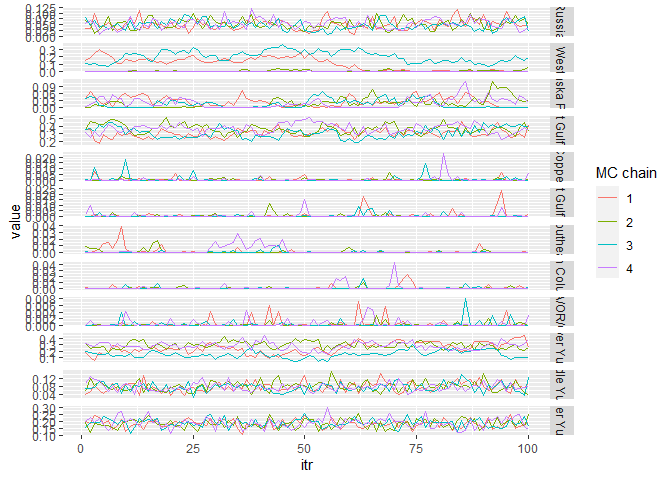
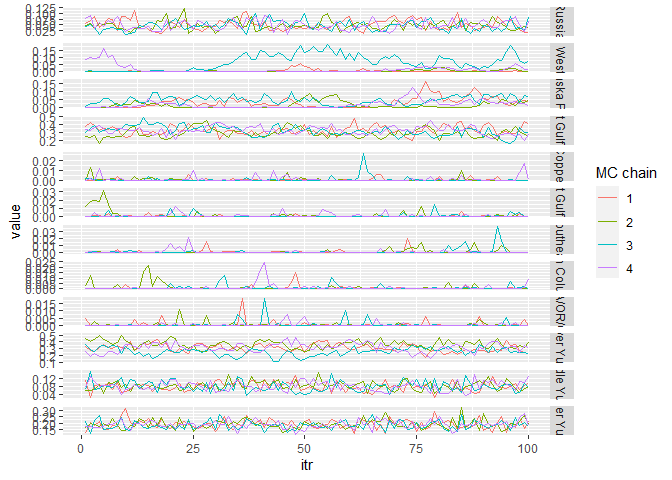
updates

diff --git a/README.md b/README.md
@@ -6,7 +6,7 @@
 <!-- badges: start -->
 <!-- badges: end -->
 
-Ms.GSI is a package for conducting multistage genetic stock
+Ms.GSI is here to help you conducting multistage genetic stock
 identification. This package includes functions to setup input data, run
 the multistage model, and make summary statistics and convergence
 diagnostics. It also includes a function for making trace plots.
@@ -25,11 +25,11 @@ devtools::install_github("boppingshoe/Ms.GSI")
 
 This example shows a basic work flow for running a multistage model.
 First thing first, the background: we made up a scenario where we have
-samples for Chinook salmon by-catch from a Bering Sea fishery. The
-mixture sample contains fish from all over the north Pacific, but we are
-interested in the contribution from the Yukon River. We will conduct GSI
-using a broad-scale baseline (Templin) in combination with a regional
-baseline (Yukon) in a multistage framework.
+samples for Chinook salmon bycatch from Bering Sea groundfish fisheries.
+The mixture sample contains Chinook from all over North Pacific, but we
+are interested in contribution from the Yukon River. We will conduct GSI
+using a broad-scale baseline (`base_templin`) in combination with a
+regional baseline (`base_yukon`) in a multistage framework.
 
 The fake Chinook data sets are pre-loaded and included in the package.
 Here we prepare the input data:
@@ -44,39 +44,41 @@ msgsi_dat <-
   baseline1_data = base_templin, baseline2_data = base_yukon,
   pop1_info = templin_pops211, pop2_info = yukon_pops50, sub_group = 3:5)
 #> Compiling input data, may take a minute or two...
-#> Time difference of 6.435127 secs
+#> Time difference of 9.934254 secs
 ```
 
-Using the prepared input data, we run the model with 150 iterations. In
-reality, you should of course run it with more iterations. We set the
-first 50 iterations as the warm-ups (not kept in the final output).
-Here’s the summary for the estimates and convergence diagnostics.
+Using the prepared input data, we run the model with four chains of 150
+iterations. In reality, you should of course run it with more
+iterations. We set the first 50 iterations in each chain as the warm-ups
+(not kept in the final output). Here’s the summary for the estimates and
+convergence diagnostics.
 
 ``` r
 msgsi_out <- msgsi_mdl(msgsi_dat, nreps = 150, nburn = 50, thin = 1, nchains = 4)
-#> Running model (and the category is... Realness!)
-#> Time difference of 2.617285 secs
-#> June-20-2022 15:26
+#> Running model (and the category is... Femme Queen Runway!)
+#> Time difference of 4.101635 secs
+#> June-28-2022 11:09
 
 msgsi_out$summ_comb
 #> # A tibble: 12 × 8
 #>    group                       mean  median      sd    ci.05   ci.95    GR n_eff
 #>    <chr>                      <dbl>   <dbl>   <dbl>    <dbl>   <dbl> <dbl> <dbl>
-#>  1 Russia                   5.14e-2 4.98e-2 0.0212  2.16e- 2 0.0890   1.01 269. 
-#>  2 Coastal West Alaska      7.86e-2 6.92e-3 0.102   7.62e-15 0.288    2.46 136. 
-#>  3 North Alaska Peninsula   1.99e-2 1.47e-2 0.0206  6.04e-11 0.0572   1.02  66.0
-#>  4 Northwest Gulf of Alaska 3.38e-1 3.37e-1 0.0672  2.31e- 1 0.453    1.19 101. 
-#>  5 Copper                   5.49e-4 1.13e-6 0.00200 8.28e-19 0.00303  1.07 400  
-#>  6 Northeast Gulf of Alaska 6.34e-4 8.35e-7 0.00228 4.75e-19 0.00336  1.09 263. 
-#>  7 Coastal Southeast Alaska 1.43e-3 2.96e-6 0.00409 1.58e-18 0.00898  1.09 135. 
-#>  8 British Columbia         9.14e-4 4.80e-7 0.00342 3.09e-19 0.00521  1.10 267. 
-#>  9 WA/OR/CA                 3.49e-4 1.95e-6 0.00101 4.78e-23 0.00194  1.05 362. 
-#> 10 Lower Yukon              2.47e-1 2.55e-1 0.0851  1.00e- 1 0.373    1.67 104. 
-#> 11 Middle Yukon             7.63e-2 7.53e-2 0.0225  4.36e- 2 0.114    1.01 400  
-#> 12 Upper Yukon              1.85e-1 1.86e-1 0.0321  1.32e- 1 0.238    1.01 621.
+#>  1 Russia                   4.88e-2 4.54e-2 0.0208  1.89e- 2 0.0863   1.01 252. 
+#>  2 Coastal West Alaska      2.13e-2 2.92e-4 0.0404  2.26e-16 0.122    1.69  52.2
+#>  3 North Alaska Peninsula   2.66e-2 1.83e-2 0.0278  1.56e-13 0.0815   1.20  37.9
+#>  4 Northwest Gulf of Alaska 3.19e-1 3.17e-1 0.0584  2.31e- 1 0.418    1.07  97.0
+#>  5 Copper                   6.57e-4 1.05e-6 0.00223 6.82e-19 0.00373  1.05 312. 
+#>  6 Northeast Gulf of Alaska 9.45e-4 1.07e-6 0.00303 9.45e-20 0.00578  1.16 274. 
+#>  7 Coastal Southeast Alaska 1.02e-3 2.71e-6 0.00334 1.23e-18 0.00583  1.04 233. 
+#>  8 British Columbia         8.42e-4 2.68e-6 0.00264 1.42e-17 0.00457  1.04 186. 
+#>  9 WA/OR/CA                 5.27e-4 3.23e-7 0.00189 4.83e-19 0.00349  1.04 281. 
+#> 10 Lower Yukon              3.13e-1 3.10e-1 0.0702  1.90e- 1 0.424    1.37 112. 
+#> 11 Middle Yukon             7.94e-2 7.87e-2 0.0229  4.44e- 2 0.117    1.00 349. 
+#> 12 Upper Yukon              1.88e-1 1.85e-1 0.0339  1.35e- 1 0.246    1.01 630.
 ```
 
-There’s a function to make trace plots and inspect mixing of chains.
+There’s a function in the package to make trace plots and inspect mixing
+of chains.
 
 ``` r
 tr_plot(obj = msgsi_out$trace_comb)
